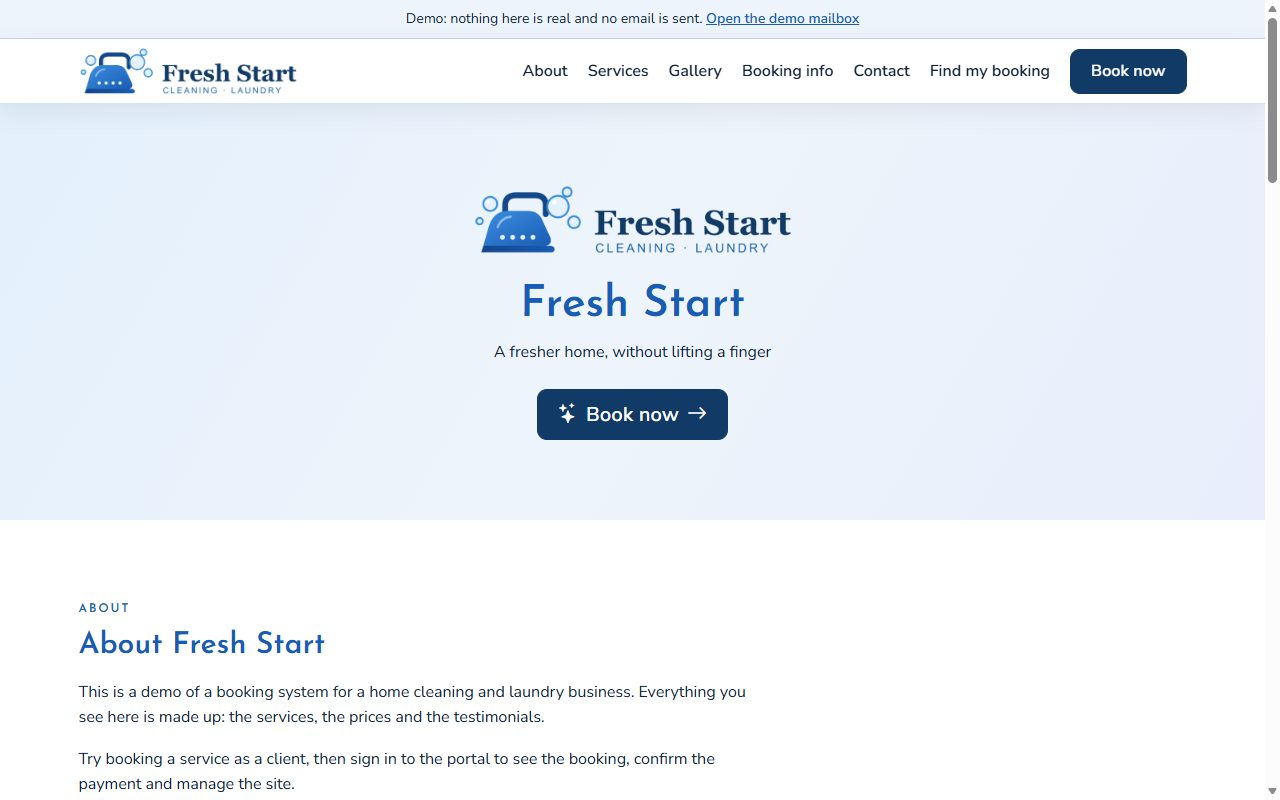
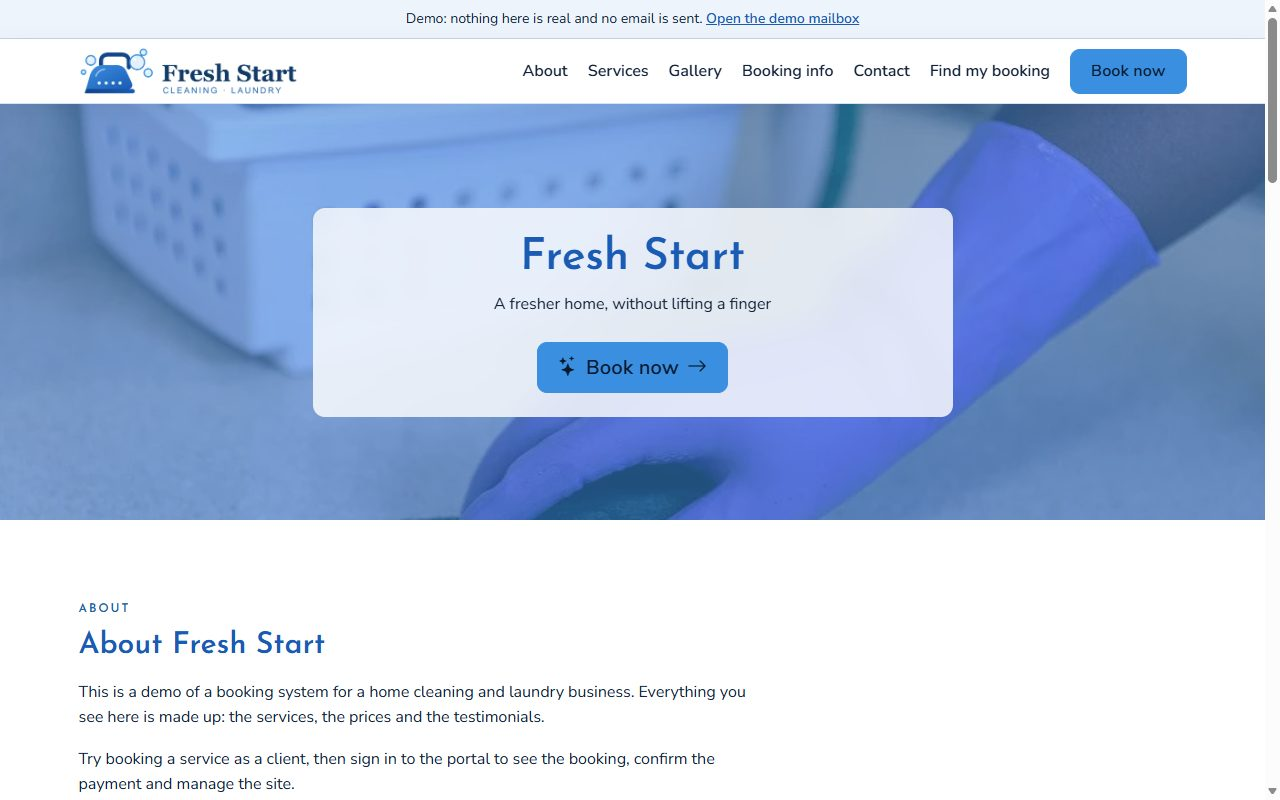
Accent-blue Book now and a hero photo (#176)

diff --git a/docs/style-guide/index.html b/docs/style-guide/index.html
@@ -52,10 +52,10 @@
       <div class="mbg-container">
         <p class="mbg-label mb-1">1</p>
         <h2>Colours</h2>
-        <p class="mbg-readable">A calm blue with a deep navy action colour. Change any value in <code>public/css/theme.css</code> to re-colour the whole site. One bright colour leads each section; photos sit on white or a light tint; deep navy means "book"; statuses never rely on colour alone. Contrast is against white unless noted; WCAG AA needs 4.5:1 for normal text.</p>
+        <p class="mbg-readable">A calm blue with a bright blue action colour. Change any value in <code>public/css/theme.css</code> to re-colour the whole site. One bright colour leads each section; photos sit on white or a light tint; bright blue means "book"; statuses never rely on colour alone. Contrast is against white unless noted; WCAG AA needs 4.5:1 for normal text.</p>
         <div class="row g-3">
           <div class="col-6 col-md-4 col-lg-3"><div class="sg-swatch"><div class="chip" style="background:#1A5BB5;color:#fff">Primary</div><div class="info"><code>#1A5BB5</code> · primary<br>Buttons, links, headings<br>White text on it 6.6:1</div></div></div>
-          <div class="col-6 col-md-4 col-lg-3"><div class="sg-swatch"><div class="chip" style="background:#123A66;color:#FFFFFF">Action</div><div class="info"><code>#123A66</code> · action<br>Book now only<br>White text on it 11.5:1</div></div></div>
+          <div class="col-6 col-md-4 col-lg-3"><div class="sg-swatch"><div class="chip" style="background:#3B8FE0;color:#071A30">Action</div><div class="info"><code>#3B8FE0</code> · action<br>Book now only<br>Text <code>#071A30</code> on it 5.2:1</div></div></div>
           <div class="col-6 col-md-4 col-lg-3"><div class="sg-swatch"><div class="chip" style="background:#3B8FE0;color:#fff;font-size:1.25rem">Accent</div><div class="info"><code>#3B8FE0</code> · bright<br>Large headings, flourishes, decoration<br><strong>Never small text</strong> (3.4:1)</div></div></div>
           <div class="col-6 col-md-4 col-lg-3"><div class="sg-swatch"><div class="chip" style="background:#1E63A8;color:#fff">Accent text</div><div class="info"><code>#1E63A8</code><br>Small accent text: prices, labels<br>6.2:1</div></div></div>
           <div class="col-6 col-md-4 col-lg-3"><div class="sg-swatch"><div class="chip" style="background:#F2C94C;color:#12233A">Gold</div><div class="info"><code>#F2C94C</code><br>Stars, highlights<br>Decoration only</div></div></div>
@@ -118,7 +118,7 @@
         <table class="table table-sm small mt-3 mb-0">
           <thead><tr><th>Button</th><th>Use</th><th>Colours</th></tr></thead>
           <tbody>
-            <tr><td><code>.btn-book</code></td><td>Book now and the booking steps</td><td>Deep navy, white text, rounded corners; the hero one has a sparkle and an arrow</td></tr>
+            <tr><td><code>.btn-book</code></td><td>Book now and the booking steps</td><td>Bright blue, dark text, rounded corners; the hero one has a sparkle and an arrow</td></tr>
             <tr><td><code>.btn-primary</code></td><td>The main action of a page or dialog</td><td>Primary blue, white text</td></tr>
             <tr><td><code>.btn-outline-primary</code></td><td>Secondary actions</td><td>Primary outline</td></tr>
           </tbody>

diff --git a/src/demo/demo-photos.spec.ts b/src/demo/demo-photos.spec.ts
@@ -1,7 +1,12 @@
 import { readdirSync, readFileSync, statSync } from 'node:fs';
 import { join } from 'node:path';
 import sharp from 'sharp';
-import { DEMO_LOGO, DEMO_PHOTO_DIR, DEMO_SERVICES } from './seed-demo.js';
+import {
+  DEMO_HERO,
+  DEMO_LOGO,
+  DEMO_PHOTO_DIR,
+  DEMO_SERVICES,
+} from './seed-demo.js';
 
 // The demo's pictures: real, credited, sensibly sized, and nothing left over.
 
@@ -9,7 +14,7 @@ const credits = readFileSync(join(DEMO_PHOTO_DIR, 'CREDITS.md'), 'utf8');
 const file = (name: string) => join(DEMO_PHOTO_DIR, name);
 
 describe('the demo photos', () => {
-  it.each(DEMO_SERVICES.map((s) => s.photo))(
+  it.each([...DEMO_SERVICES.map((s) => s.photo), DEMO_HERO])(
     '%s is a proper photo',
     async (name) => {
       const meta = await sharp(file(name)).metadata();
@@ -23,7 +28,7 @@ describe('the demo photos', () => {
     },
   );
 
-  it.each(DEMO_SERVICES.map((s) => s.photo))(
+  it.each([...DEMO_SERVICES.map((s) => s.photo), DEMO_HERO])(
     '%s is credited, with its licence',
     (name) => {
       const row = credits
@@ -55,6 +60,7 @@ describe('the demo photos', () => {
     const used = new Set([
       ...DEMO_SERVICES.map((s) => s.photo),
       DEMO_LOGO,
+      DEMO_HERO,
       'CREDITS.md',
     ]);
     const stray = readdirSync(DEMO_PHOTO_DIR).filter((name) => !used.has(name));

diff --git a/src/notifications/payment-instructions.template.ts b/src/notifications/payment-instructions.template.ts
@@ -119,7 +119,7 @@ export function renderPaymentInstructions(
 <table role="presentation" style="border-collapse:collapse;margin:0 0 8px">${rows(bank)}</table>
 <p>Please use <strong>${escapeHtml(d.reference)}</strong> as your payment reference so I can match your payment.</p>
 <h2 style="${heading}">2. Upload your proof of payment</h2>
-<p><a href="${escapeHtml(d.link)}" style="display:inline-block;background:#123A66;color:#FFFFFF;text-decoration:none;font-weight:bold;padding:12px 20px;border-radius:6px">Upload proof of payment</a></p>
+<p><a href="${escapeHtml(d.link)}" style="display:inline-block;background:#3B8FE0;color:#071A30;text-decoration:none;font-weight:bold;padding:12px 20px;border-radius:6px">Upload proof of payment</a></p>
 <p>This is your private booking link. Keep this email: you can also use the link to cancel if your plans change. Please don't share it.</p>
 <h2 style="${heading}">3. I'll confirm your booking</h2>
 <p>I'll confirm your booking by email as soon as the money reflects in my account.</p>

diff --git a/src/notifications/email-layout.ts b/src/notifications/email-layout.ts
@@ -18,7 +18,7 @@ export interface Business {
 
 const INK = '#2A1A26';
 const MAGENTA = '#A02080';
-const ACTION = '#123A66';
+const ACTION = '#3B8FE0';
 
 function textOf(block: Block): string {
   if ('p' in block) return block.p;
@@ -38,7 +38,7 @@ function htmlOf(block: Block): string {
     return `<p style="border-left:4px solid ${MAGENTA};padding:8px 12px;background:#faf2f8"><strong>${escapeHtml(block.callout)}</strong></p>`;
   }
   if ('button' in block) {
-    return `<p><a href="${escapeHtml(block.button.url)}" style="display:inline-block;background:${ACTION};color:#FFFFFF;text-decoration:none;font-weight:bold;padding:12px 20px;border-radius:6px">${escapeHtml(block.button.label)}</a></p>`;
+    return `<p><a href="${escapeHtml(block.button.url)}" style="display:inline-block;background:${ACTION};color:#071A30;text-decoration:none;font-weight:bold;padding:12px 20px;border-radius:6px">${escapeHtml(block.button.label)}</a></p>`;
   }
   const rows = block.rows
     .map(

diff --git a/public/css/theme.css b/public/css/theme.css
@@ -17,9 +17,10 @@
   --mbg-primary-rgb: 26, 91, 181;
   --mbg-primary-dark: #134689;   /* primary hover */
   --mbg-primary-dark-rgb: 19, 70, 137;
-  --mbg-action: #123A66;         /* action: Book now only (deep navy, the strongest thing on the page) */
-  --mbg-action-dark: #0A2646;    /* action hover */
-  --mbg-on-action: #FFFFFF;      /* text on the action colour */
+  --mbg-action: #3B8FE0;         /* action: Book now only (the bright accent blue; dark text, white would be too faint) */
+  --mbg-action-dark: #5AA3EC;    /* action hover (lighter, so the dark text stays easy to read) */
+  --mbg-on-action: #071A30;      /* text on the action colour */
+  --mbg-accent-rgb: 59, 143, 224;
   --mbg-accent: #3B8FE0;         /* large headings, flourishes, decoration; never small text */
   --mbg-accent-text: #1E63A8;    /* small accent text: prices, labels */
   --mbg-gold: #F2C94C;           /* stars, highlights */

diff --git a/src/demo/seed-demo.ts b/src/demo/seed-demo.ts
@@ -38,6 +38,7 @@ export const DEMO_PHOTO_DIR = join(
   'demo-photos',
 );
 export const DEMO_LOGO = 'logo-fresh-start.png';
+export const DEMO_HERO = 'hero-cleaning.jpg';
 
 // Two blues per service, drawn here as a soft gradient with bubbles, so the
 // demo needs no photo files
@@ -221,6 +222,19 @@ export async function seedDemo(
     await app
       .get(SiteContentService, { strict: false })
       .setImage('logo', await readFile(logoFile), admin.id, 'Fresh Start');
+  }
+
+  // The home page's hero photo
+  const heroFile = join(DEMO_PHOTO_DIR, DEMO_HERO);
+  if (existsSync(heroFile)) {
+    await app
+      .get(SiteContentService, { strict: false })
+      .setImage(
+        'hero',
+        await readFile(heroFile),
+        admin.id,
+        'A gloved hand wiping a kitchen counter with a sponge',
+      );
   }
 
   const testimonials = app.get(TestimonialsService, { strict: false });

diff --git a/public/css/site.css b/public/css/site.css
@@ -309,6 +309,13 @@ admin-header .nav-link.active {
   height: 100%;
   object-fit: cover;
 }
+/* A wash of the accent colour over the photo, so the hero feels part of the brand */
+.mbg-hero-photo-wrap::after {
+  content: '';
+  position: absolute;
+  inset: 0;
+  background: rgba(var(--mbg-accent-rgb, 59, 143, 224), 0.55);
+}
 .mbg-hero-with-photo {
   min-height: 26rem;
   display: flex;
@@ -320,7 +327,9 @@ admin-header .nav-link.active {
   max-width: 40rem;
   margin-block: 2.5rem;
   padding: 1.5rem;
-  background: rgba(255, 255, 255, 0.88);
+  background: rgba(255, 255, 255, 0.82);
+  -webkit-backdrop-filter: blur(12px);
+  backdrop-filter: blur(12px);
   border-radius: 0.75rem;
 }
 

diff --git a/src/common/colour-contrast.spec.ts b/src/common/colour-contrast.spec.ts
@@ -71,9 +71,9 @@ describe('text on buttons and badges', () => {
   it.each([
     ['white on a magenta button', '#FFFFFF', 'mbg-primary'],
     ['white on a magenta button, pressed', '#FFFFFF', 'mbg-primary-dark'],
-    ['white text on the navy Book button', 'mbg-on-action', 'mbg-action'],
+    ['dark text on the bright blue Book button', 'mbg-on-action', 'mbg-action'],
     [
-      'white text on the navy Book button, pressed',
+      'dark text on the bright blue Book button, pressed',
       'mbg-on-action',
       'mbg-action-dark',
     ],

diff --git a/docs/style-guide.md b/docs/style-guide.md
@@ -27,18 +27,18 @@ How every page of the booking site looks: colours, type, shapes, components, log
 
 - **The work is the star.** Service photos carry the most colour; the page supports them.
 - **One brand, one file.** Every colour comes from `theme.css`, so a business re-colours the site in one place and the logo it uploads fits.
-- **Booking is always obvious.** Deep navy means "book". There is at most one Book now per view.
+- **Booking is always obvious.** Bright blue means "book". There is at most one Book now per view.
 - **Readable for everyone.** All text meets WCAG 2.2 AA contrast; nothing relies on colour alone.
 
 ## 2. Colours
 
-The default theme is a calm blue with a deep navy action colour, for a home services business. Change any value in `theme.css`; the tests in `src/common/colour-contrast.spec.ts` check every pairing of text and background and fail if a new colour is too faint.
+The default theme is a calm blue with a bright blue action colour, for a home services business. Change any value in `theme.css`; the tests in `src/common/colour-contrast.spec.ts` check every pairing of text and background and fail if a new colour is too faint.
 
 | Role | Name | Hex | Used for | Contrast |
 | --- | --- | --- | --- | --- |
 | Primary | Primary | `#1A5BB5` | Primary buttons, links, headings | White on it 6.6:1 |
 | Primary hover | Primary dark | `#134689` | Hover and pressed states | |
-| Action | Action | `#123A66` | **Book now** and the booking steps only | White text on it 11.5:1 |
+| Action | Action | `#3B8FE0` | **Book now** and the booking steps only | Text `#071A30` on it 5.2:1 |
 | Bright | Accent | `#3B8FE0` | Large headings (24 px and up), decoration, backgrounds | 3.4:1 on white: **never small text** |
 | Accent text | Accent text | `#1E63A8` | Small accent text: prices, section labels | 6.2:1 on white, 5.3:1 on the light blue tint |
 | Highlight | Gold | `#F2C94C` | Stars, highlights | Decoration only |
@@ -96,7 +96,7 @@ All components are Bootstrap 5.3, themed by `tokens.css` and `theme.css`. See th
 
 | Class | Use | Look |
 | --- | --- | --- |
-| `.btn-book` | Book now and the booking steps | Deep navy, white text, rounded corners; the hero one has a sparkle and an arrow |
+| `.btn-book` | Book now and the booking steps | Bright blue, dark text, rounded corners; the hero one has a sparkle and an arrow |
 | `.btn-primary` | The main action of a page or dialog (Confirm payment, Save) | Primary blue, white text |
 | `.btn-outline-primary` | Secondary actions (See gallery, Cancel) | Primary outline |
 | Text link | Inline navigation | Primary colour, underlined on hover |
@@ -143,7 +143,7 @@ Every status has a word, an icon and a distinct shape, so they're distinguishabl
 
 ### Date and time picker
 
-The client booking page uses a Monday-first month calendar (`.mbg-calendar`) of square day buttons (`.mbg-day`, at least 44 px): white with a pale line, primary colour when selected (`.is-selected`, with `aria-pressed`), and faded and not clickable when the date is outside the booking window. Open times are pill-outline buttons (`.mbg-slot`) that fill with the primary colour when chosen (`.active`). The Continue button is the navy booking button (`.btn-book`). A day with no times shows the info alert "No times are available on this day. Please choose another date."
+The client booking page uses a Monday-first month calendar (`.mbg-calendar`) of square day buttons (`.mbg-day`, at least 44 px): white with a pale line, primary colour when selected (`.is-selected`, with `aria-pressed`), and faded and not clickable when the date is outside the booking window. Open times are pill-outline buttons (`.mbg-slot`) that fill with the primary colour when chosen (`.active`). The Continue button is the bright blue booking button (`.btn-book`). A day with no times shows the info alert "No times are available on this day. Please choose another date."
 
 ### Service status
 
@@ -202,7 +202,7 @@ The demo's example business, Fresh Start, has a sample logo of bubbles and an ir
 | Decision | Why |
 | --- | --- |
 | Colours in their own file (`theme.css`) | A business re-colours the site by editing one file, and a private copy of the project can keep its own colours without conflicts when it takes new releases (`BRANDING.md`). |
-| A calm blue with a deep navy action colour | Blue reads as clean and trustworthy for a home services business; the darkest, strongest blue marks the Book button, so it is always the easiest thing to find. Every pairing passes WCAG AA. |
+| A calm blue with a bright blue action colour | Blue reads as clean and trustworthy for a home services business; the brightest blue marks the Book button, so it is always the easiest thing to find. Every pairing passes WCAG AA. |
 | Josefin Sans, Nunito Sans, Alex Brush | Josefin gives headings a friendly geometric look, Nunito keeps details clear, Alex Brush is for rare decoration. |
 | Light mode only | The owner's preference for v1. |
 | Built on Bootstrap 5.3 | Matches the frontend stack in spec section 11; the tokens theme it instead of replacing it. |

diff --git a/docs/emails.md b/docs/emails.md
@@ -21,7 +21,7 @@ The subject, preview text and body of each email the system sends. The notificat
 | --- | --- |
 | Voice | Warm, clear and personal, in the first person, as the owner ("I'll see you on Tuesday"). Short sentences, no jargon. Owner emails are brief and factual. |
 | Sender | From: `{{business.name}} <bookings address>`. Reply-To: `{{business.email}}`, so a client's reply reaches the owner. |
-| Format | HTML following the [style guide](style-guide.md) (logo, white background, blue links, navy button for the main action), with a plain-text version of the same words. Width at most 600 px; readable on a phone. |
+| Format | HTML following the [style guide](style-guide.md) (logo, white background, blue links, bright blue button for the main action), with a plain-text version of the same words. Width at most 600 px; readable on a phone. |
 | Dates and times | Business time zone, written out: "Tuesday 13 October 2026 at 09:00". Times as `HH:mm`. Money as "R325" or "R1,200" (no cents unless there are cents). |
 | Booking link | Appears **only** in an email sent at the moment the link is created: payment instructions, both booking confirmations (a fresh link is issued when payment is confirmed), and a resent link (BR-15). Only the link's hash is stored, so other emails can't include it; they point to the booking details page instead. The link is never shown in owner emails, logs or the notification history. |
 | Personal data | Only what the recipient needs (POPIA). Client emails never show other clients' details; owner emails show the client's name, email and phone. |

diff --git a/demo-photos/CREDITS.md b/demo-photos/CREDITS.md
@@ -8,6 +8,7 @@ The pictures the demo uses for its example business, Fresh Start. All of them ar
 | `deep-clean.jpg` | [Bedroom Clean](https://stocksnap.io/photo/bedroom-clean-OE0F9BHXJQ) | Burst | CC0 (public domain) |
 | `laundry-wash.jpg` | [Washingmachine Laundry](https://stocksnap.io/photo/washingmachine-laundry-CH3TPVQGU3) | Freestocks.org | CC0 (public domain) |
 | `ironing.jpg` | ["Ironed shirt"](https://www.flickr.com/photos/79418529@N02/7109991345) | peapod labs | [CC BY 2.0](https://creativecommons.org/licenses/by/2.0/) |
+| `hero-cleaning.jpg` | [Cleaning Kitchen Counter](https://www.flickr.com/photos/184594136@N08/51486539352) | Alabama Extension | CC0 (public domain) |
 | `wash-and-iron.jpg` | [Clothes Shirts](https://stocksnap.io/photo/clothes-shirts-BD2F94946C) | Jay Mantri | CC0 (public domain) |
 
 Found through [Openverse](https://openverse.org), which lists the licence of each image. The files were resized and recompressed; nothing else was changed. `ironing.jpg` needs the credit above under its licence (CC BY): keep this file with it.
